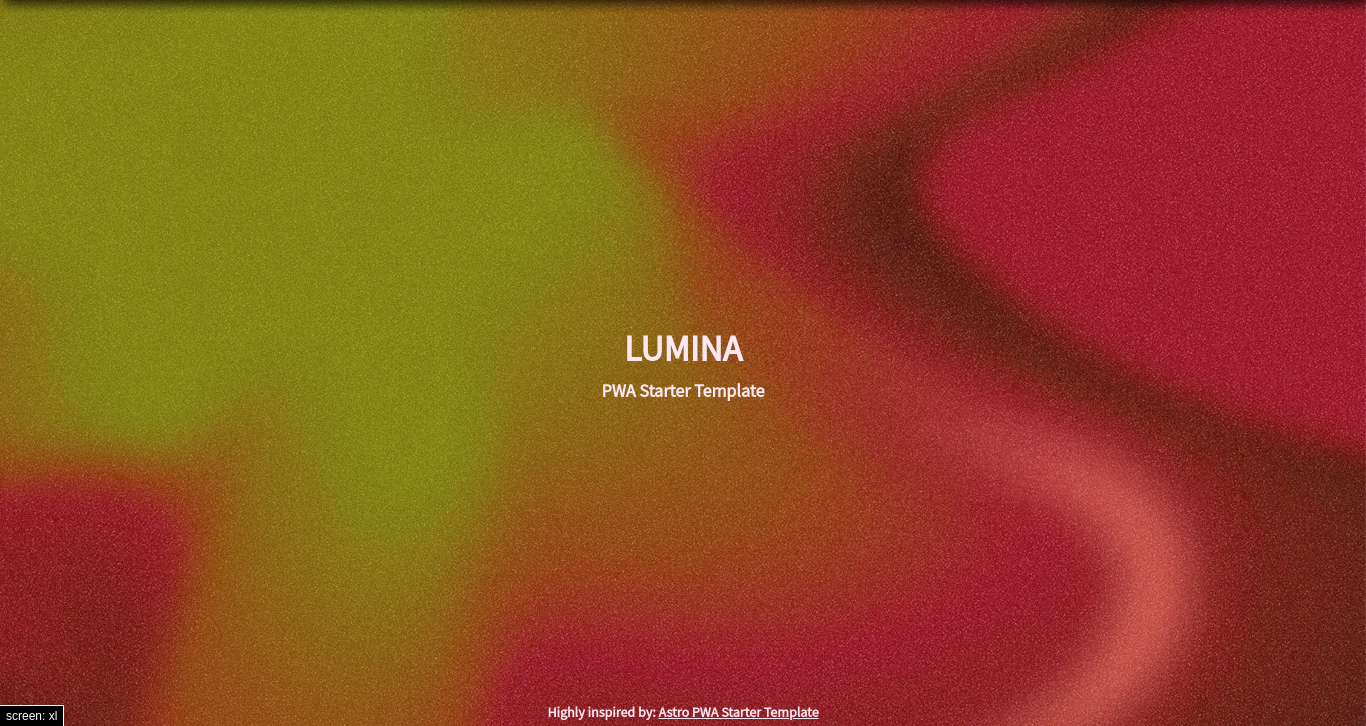
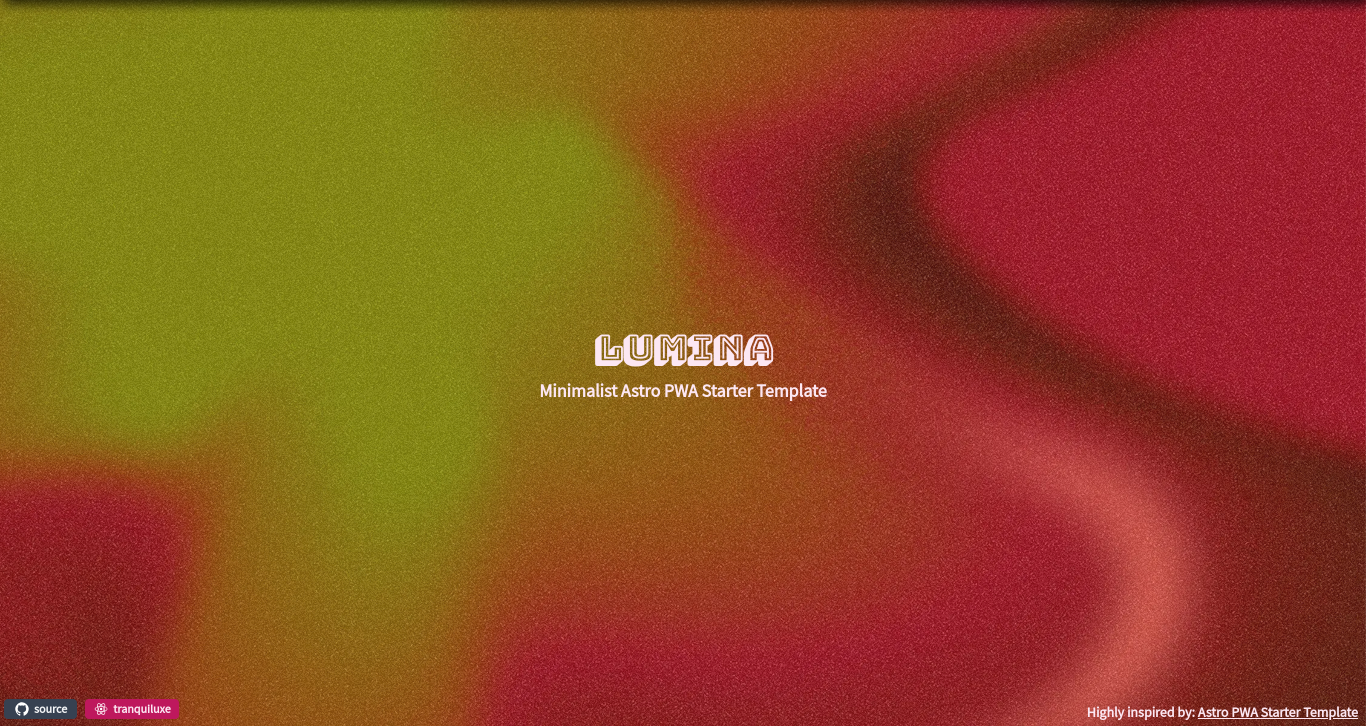
styles (footer): added reference links I

diff --git a/tailwind.config.ts b/tailwind.config.ts
@@ -2,6 +2,20 @@
 export default {
   content: ['./src/**/*.{astro,html,jsx,tsx,svelte,vue,js,ts}'],
   theme: {
+    debugScreens: {
+      style: {
+        backgroundColor: 'white',
+        color: 'black',
+        position: 'absolute',
+        borderRadius: '5px',
+        fontFamily: 'monospace',
+        fontSize: '10px',
+        fontWeight: 'bold',
+        margin: '5px'
+        // ...
+      },
+      position: ['bottom', 'right']
+    },
     screens: {
       xs: '320px',
       // => @media (min-width: 320px) { ... }

diff --git a/readme.md b/readme.md
@@ -2,6 +2,14 @@
 
 ![alt text](./lib/snaps/preview.png)
 
+### [Live Demo](https://lumina-sigma.vercel.app/)
+
+## Alternate Themes
+
+### Tranquiluxe (UVCanvas, Animated with this [React Library](https://uvcanvas.com/docs/components/tranquiluxe))
+
+![alt text](./lib/snaps/tranquiluxe.png)
+
 ## About
 
 Template for a PWA with Astro and TailwindCSS. Prettier, EsLint and VsCode settings included.
